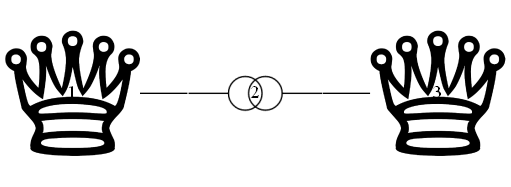
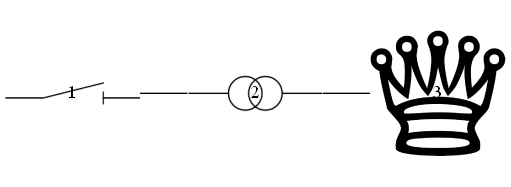
gogo

Changed region(s): [[0.0, 0.1604, 0.2935, 0.8556]]

diff --git a/slange/graph1.py b/slange/graph1.py
@@ -2,13 +2,13 @@ import pygraphviz as pgv
 from PIL import Image
 
 size = 1.4
-#image1 = Image.open('images/transformer-3p.png')
-#img_rotated = image1.rotate(90)
-#img_rotated.save('images/traforotated.png')
+image1 = Image.open('images/Skillebryter.png')
+img_rotated = image1.rotate(90)
+img_rotated.save('images/Skillebryter.png')
 hdw_trafo = 276 / 210 # height/width because of cropping in Gimp
 
 A=pgv.AGraph(rankdir='LR', splines=False)
-A.add_node(1, shape='none', image='images/queen.png', fixedsize=True, imagescale=True, width=size, height=size)
+A.add_node(1, shape='none', image='images/Skillebryter.png', fixedsize=True, imagescale=True, width=size, height=size*hdw_trafo)
 A.add_node(2, shape='none', image='images/img_rotated.png', fixedsize=True, imagescale=True, width=size, height=size*hdw_trafo)
 A.add_node(3, shape='none', image='images/queen.png', fixedsize=True, imagescale=True, width=size, height=size)
 
